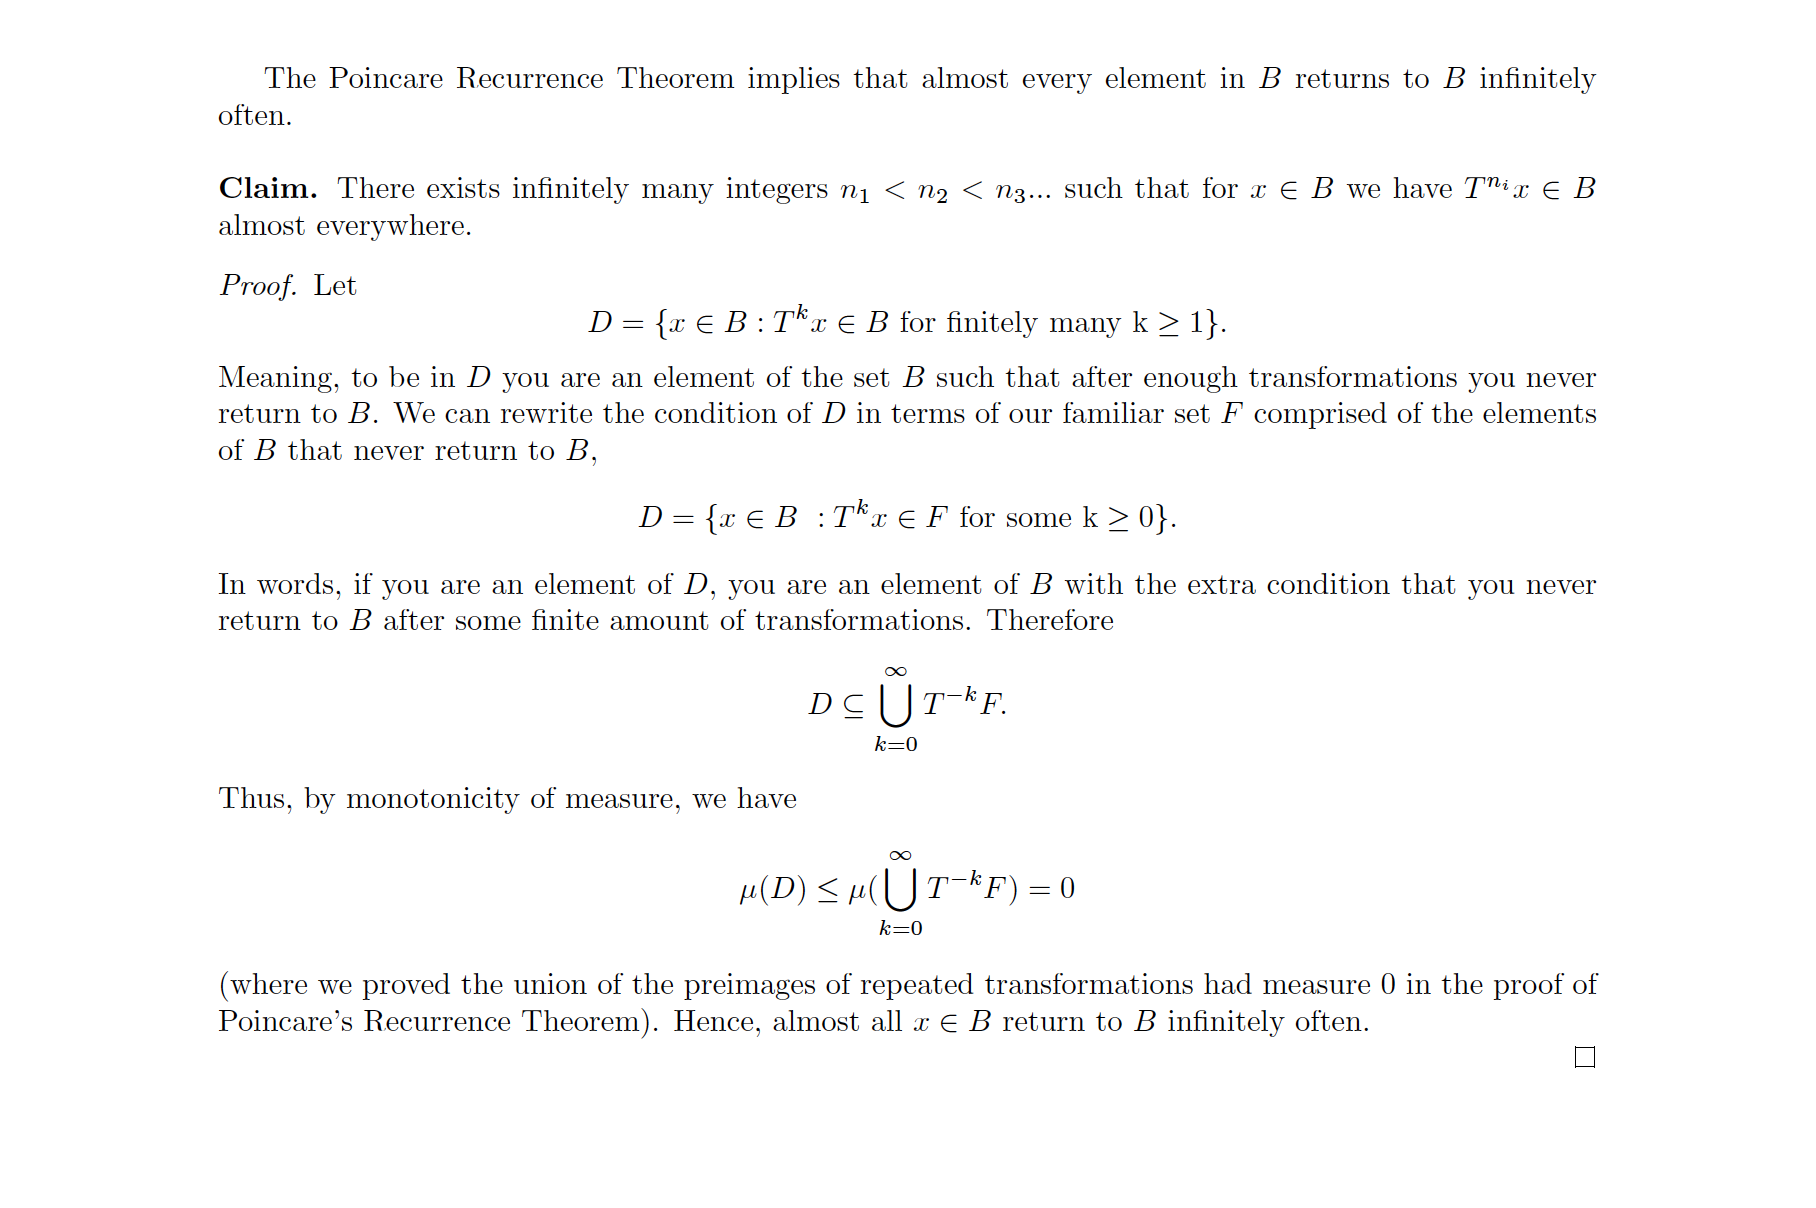
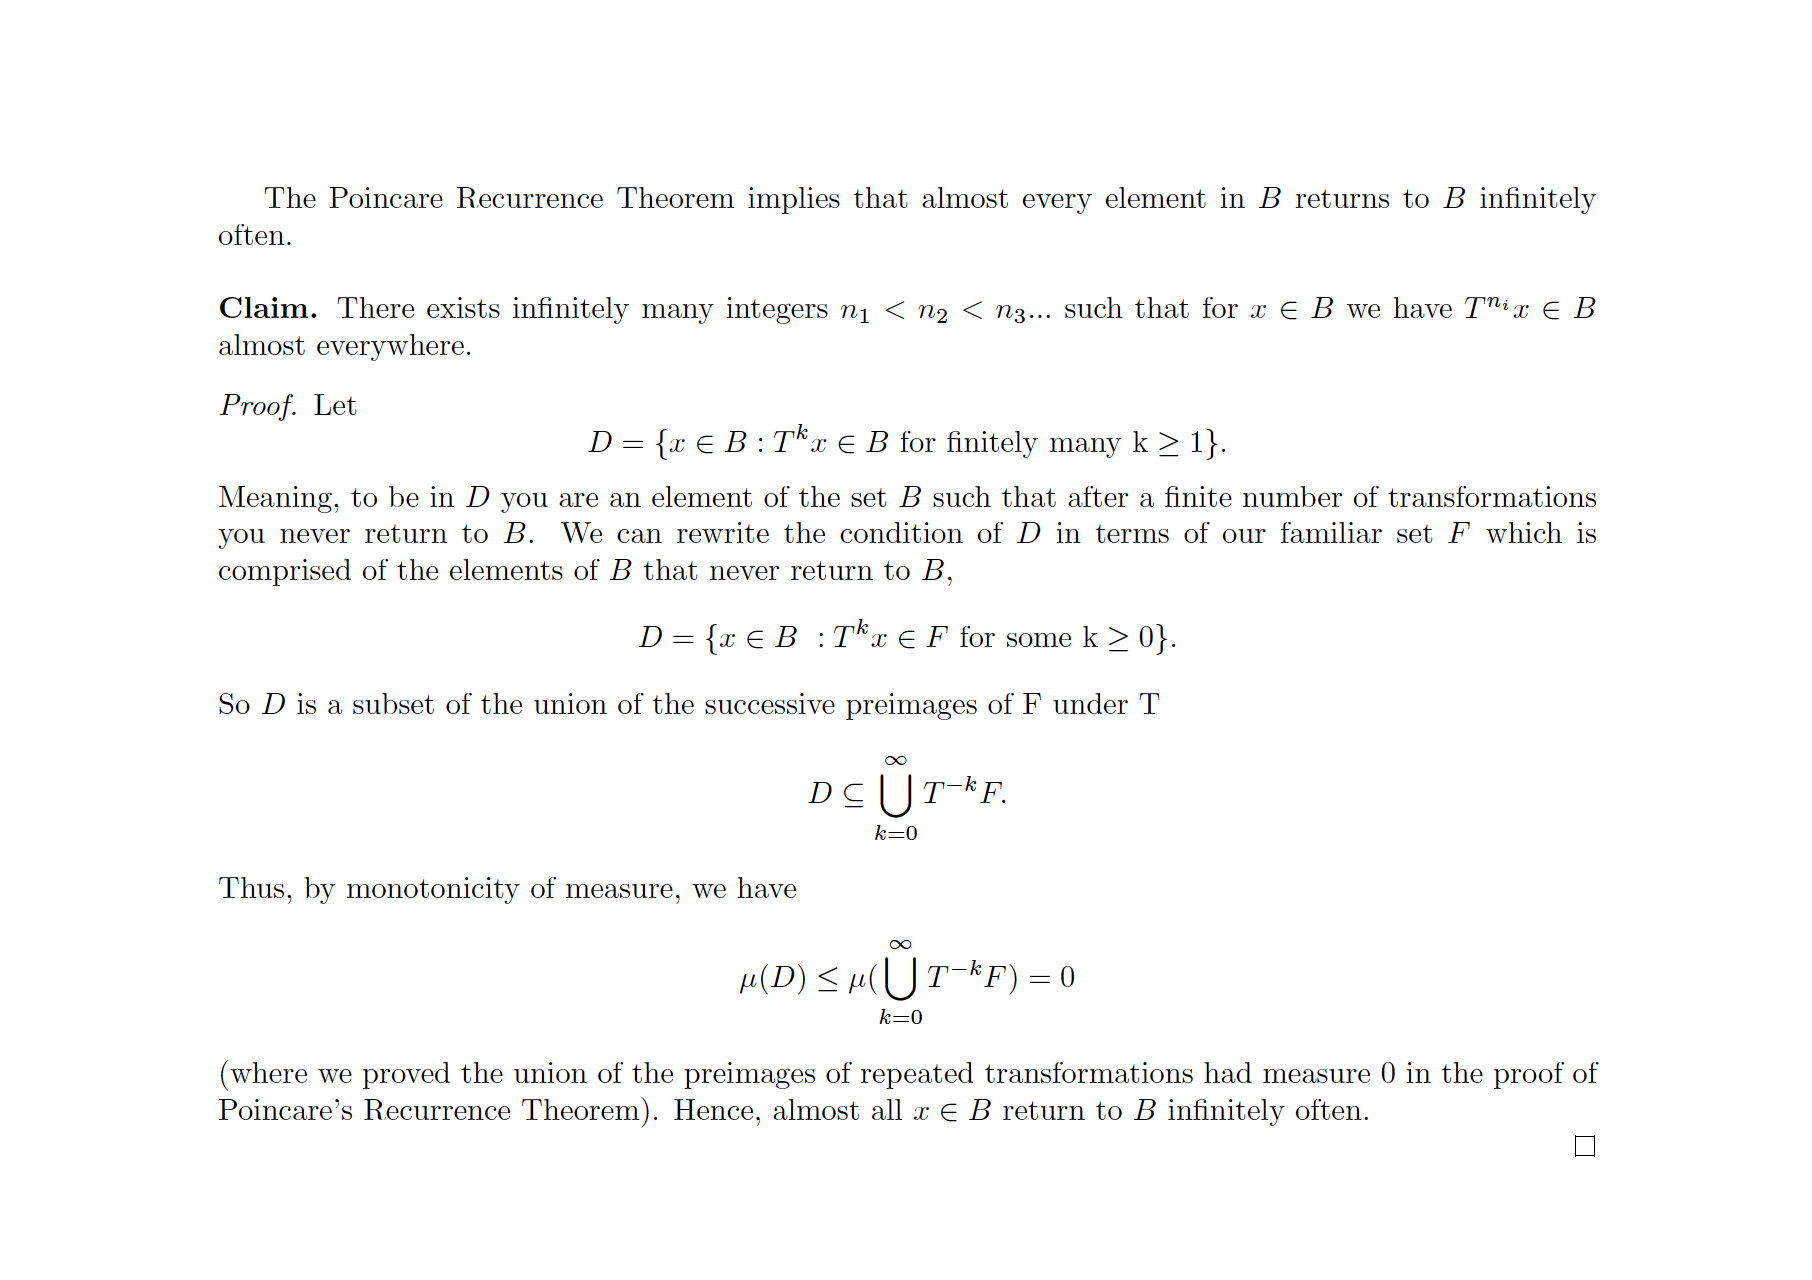
poincare

diff --git a/poincare_recurrence/poincare_recurrence.tex b/poincare_recurrence/poincare_recurrence.tex
@@ -4,7 +4,7 @@
 \geometry{a4paper, margin=1in} % Adjust margins if needed
 
 \begin{document}
-
+Before we get into the proof, we need to remember two things. \\
 \textbf{Remember:} a measure preserving transformation is some function $T : X \rightarrow X$ on a set X such that
 $\mu(x) = \mu(T^{-1}x)$ for $x \in X$.
 \\
@@ -19,10 +19,10 @@ So $F \cap T^{-k}x = \emptyset$ for any $k \geq 1$. By construction, you can't r
 It follows that $T^{-l}F \cap T^{-m}F = \emptyset$ for $l, m \geq 1$ and $l \neq m$. Concretely, the preimages of $F$ under at least one transformation $T$ 
 don't share any elements (if the preimages did share elements, it would mean that you could get from $F$ back into $F$ in $|m - l|$ transformations, but
 we've constructed $F$ precisely so you can't return to it). 
-Thus, $F$, $T^{-1}F$, $T^{-2}F$, $...$ are pairwise disjoint. Since T is measure preserving, $\mu(F) = \mu(T^{-k})$ for any $k \geq 1$. 
+Thus, $F$, $T^{-1}F$, $T^{-2}F$, $...$ are pairwise disjoint. Since T is measure preserving, we have $\mu(F) = \mu(T^{-k})$ for any $k \geq 1$. 
 Now we assume that $\mu(F) > 0$ to get our desired contradiction. 
 If $\mu(F) > 0$, then $$\mu(\bigcup\limits_{k=1}^{\infty} T^{-k}F) \leq \sum\limits_{k = 1}^{\infty} \mu(T^{-k}F) = \infty$$ by countable subadditivity.
-Since we're working on a probability space, we know $$\bigcup\limits_{k=1}^{\infty}T^{-k}F \subseteq X$$ and following this to its end, we get the contradiction
+Since we're working on a probability space, we know $$\bigcup\limits_{k=1}^{\infty}T^{-k}F \subseteq X,$$ and by taking measures we get the contradiction
 $$1 = \mu(X) \geq \mu(\bigcup\limits_{k=1}^{\infty}T^{-k}F) = \infty.$$ By contradiction, it must be that $\mu(F) = 0$. 
 Almost every element of $B$ is B-recurrent. 
 

diff --git a/poincare_recurrence/recurrence_implication.tex b/poincare_recurrence/recurrence_implication.tex
@@ -9,11 +9,10 @@ The Poincare Recurrence Theorem implies that almost every element in $B$ returns
 $T^{n_i}x \in B$ almost everywhere. 
 \begin{proof}
 Let $$D = \{x \in B : T^{k}x \in B\ \mathrm{for\ finitely\ many\ k \geq 1\}}.$$ 
-Meaning, to be in $D$ you are an element of the set $B$ such that after enough transformations you never return to $B$. 
-We can rewrite the condition of $D$ in terms of our familiar set $F$ comprised of the elements of $B$ that never return to $B$, 
+Meaning, to be in $D$ you are an element of the set $B$ such that after a finite number of transformations you never return to $B$. 
+We can rewrite the condition of $D$ in terms of our familiar set $F$ which is comprised of the elements of $B$ that never return to $B$,
 $$D = \{x \in B\ : T^{k}x \in F\ \mathrm{for\ some\ k \geq 0\}}.$$
-In words, if you are an element of $D$, you are an element of $B$ with the extra condition that you never return to $B$ after some finite amount
-of transformations. Therefore $$D \subseteq \bigcup\limits_{k=0}^{\infty} T^{-k}F.$$ Thus, by monotonicity of measure, we have
+So $D$ is a subset of the union of the successive preimages of F under T $$D \subseteq \bigcup\limits_{k=0}^{\infty} T^{-k}F.$$ Thus, by monotonicity of measure, we have
 $$ \mu(D) \leq \mu(\bigcup\limits_{k=0}^{\infty} T^{-k}F) = 0$$ (where we proved the union of the preimages of repeated transformations had measure 0 
 in the proof of Poincare's Recurrence Theorem).
 Hence, almost all $x \in B$ return to 
